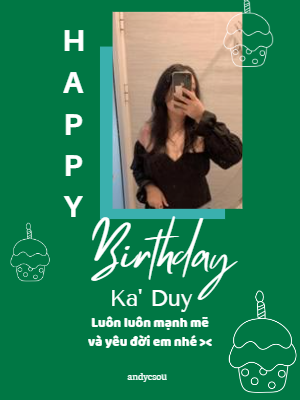
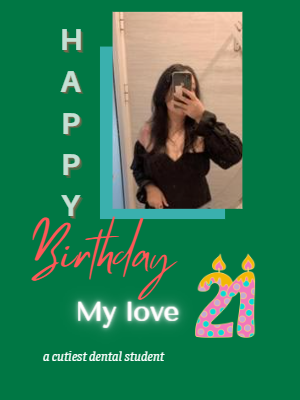
.

diff --git a/index.html b/index.html
@@ -28,10 +28,10 @@
         <div class="imgBox">
             <div class="bark"></div>
             <img src="1.png">
-            <!-- <img src="https://image.ibb.co/fYzTrb/lastofus.jpg"> -->
+            <!-- cía này là ghi chú thích cho vừa lòng em -->
         </div>
         <div class="details">
-            <h4 class="color1">HAPPY BIRTHDAY KA' DUY</h2>
+            <h4 class="color1">HAPPY BIRTHDAY</h2>
                 <h4 class="color2 margin">Cục cưng của anh</h3>
                     <p>Em à,</p>
                     <p>Hmm xem nào...</p>
@@ -146,7 +146,7 @@
             particles.push(new confettiParticle());
         }
 
-        // Initialize
+        // khởi tạo
         canvas.width = W;
         canvas.height = H;
         Draw();
